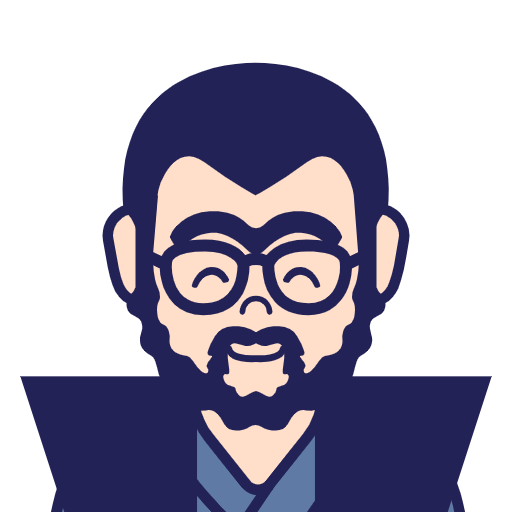
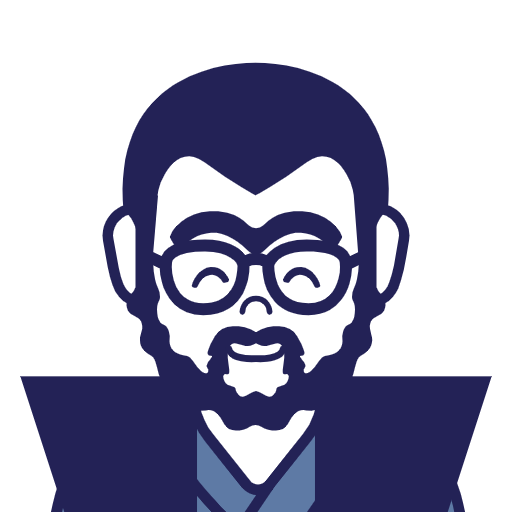
ページトップを追従ボタン化し、Campaign01背景の高さ破綻を修正
- ページトップ: fixed + 1画面スクロールで表示。スタンプボタンの位置を
  --stamp-button-top に共有化し、その 12px 上へ積む（--lg 以上は右下）
- Campaign01 背景: cover をやめ上端原寸 + clip-path。推し商品が増えて
  セクションが設計高 1224px を超えると白帯が露出していた
- 上部の三角も y=1px 始点にして角手前の折れを解消
- 宝探し完了 CTA を特別セット商品ページへ（TREASURE_SPECIAL_URL）
- 担当イニシャル KM → MK、濃い抹茶パウダー写真差し替え、LINE バナー png 化
- favicon を自社ロゴに、\／ の開き幅とasatsuyu/greentea画像を軽量化

Claude-Session: https://claude.ai/code/session_018hv4SRJuTxVF6UNWeBzEC4

Changed region(s): [[0.2188, 0.2812, 0.7812, 0.7812], [0.375, 0.7812, 0.625, 0.9688]]

diff --git a/src/data/campaigns.ts b/src/data/campaigns.ts
@@ -76,11 +76,11 @@ export const HONEY_SALE_ITEMS = [
 /** Campaign01 — スタッフの推し商品紹介。1件ずつ支給され次第、上から埋める。
    staff/product/comment が揃った枠は本表示、無い枠は「準備中」プレースホルダ。
    photo は Campaign01.astro 側の画像マップ(PICK_PHOTOS)のキー。 */
-const KM_HYOCHA_COMMENT =
+const MK_HYOCHA_COMMENT =
   'ティーバッグ形式なので手軽に作れて後片付けが簡単なのも嬉しい所。どれも美味しいですが、プレミアム煎茶は後味がすっきりしており、飲みやすいところが特におすすめです。';
 const SY_WAKOCHA_COMMENT =
   '和紅茶ならではのすっきりとした味わい、そして白桃の「芳醇な甘い香り」は暑い夏にぴったりな一品。ぜひ、一度アイスティで楽しんでいて欲しいです！';
-const KM_KOICHA_COMMENT =
+const MK_KOICHA_COMMENT =
   'フロストシュガーが入っているので、水でも簡単に溶けて使いやすくなっています。おすすめはミルクに溶かして飲む抹茶ラテ。お家で簡単に日本茶カフェ気分が味わえる優れものです。';
 const NN_UJI_COMMENT =
   'ひと口目から抹茶の旨みがしっかり広がり、後味にはほどよい甘みが残ります。特に牛乳で溶くと、抹茶の濃さとミルクのまろやかさが合わさり、濃厚でリッチな味わいが楽しめます！';
@@ -102,13 +102,13 @@ const TE_DAIFUKU_COMMENT =
 const SHOP_ITEM = 'https://www.tea-and-coffee.shop/view/item/';
 
 export const STAFF_PICKS = [
-  { id: 'pick1', staff: 'KM', product: '氷茶プレミアム煎茶', comment: KM_HYOCHA_COMMENT, photo: 'hyocha', href: `${SHOP_ITEM}000000000111` },
+  { id: 'pick1', staff: 'MK', product: '氷茶プレミアム煎茶', comment: MK_HYOCHA_COMMENT, photo: 'hyocha', href: `${SHOP_ITEM}000000000111` },
   { id: 'pick2', staff: 'OT', product: 'CHASTA（チャスタ）', comment: OT_CHASTA_COMMENT, photo: 'chasta', href: `${SHOP_ITEM}000000000316` },
   { id: 'pick3', staff: 'NN', product: '宇治抹茶グリーンティープレミアム', comment: NN_UJI_COMMENT, photo: 'greentea', href: `${SHOP_ITEM}000000000666` },
   { id: 'pick4', staff: 'TE', product: '抹茶大福', comment: TE_DAIFUKU_COMMENT, photo: 'daifuku', href: `${SHOP_ITEM}000000000200` },
   { id: 'pick5', staff: 'SY', product: 'MINTON和紅茶「白桃」', comment: SY_WAKOCHA_COMMENT, photo: 'wakocha', href: `${SHOP_ITEM}000000000662` },
   { id: 'pick6', staff: 'OT', product: '抹茶クッキー', comment: OT_COOKIE_COMMENT, photo: 'cookie', href: `${SHOP_ITEM}000000000163` },
-  { id: 'pick7', staff: 'KM', product: '濃い抹茶パウダー', comment: KM_KOICHA_COMMENT, photo: 'koicha', href: `${SHOP_ITEM}000000000012` },
+  { id: 'pick7', staff: 'MK', product: '濃い抹茶パウダー', comment: MK_KOICHA_COMMENT, photo: 'koicha', href: `${SHOP_ITEM}000000000012` },
   { id: 'pick8', staff: 'NM', product: 'ほうじ茶ヴァッフェル', comment: NM_HOJICHA_COMMENT, photo: 'waffel', href: `${SHOP_ITEM}000000000174` },
   { id: 'pick9', staff: 'OT', product: '品種抹茶「朝露（あさつゆ）」', comment: OT_ASATSUYU_COMMENT, photo: 'asatsuyu', href: `${SHOP_ITEM}000000000802` },
   { id: 'pick10', staff: 'HR', product: 'KFK 水出しアイスコーヒー', comment: HR_KFK_COMMENT, photo: 'icecoffee', href: `${SHOP_ITEM}000000000774` },

diff --git a/src/styles/products/p-campaign01.css b/src/styles/products/p-campaign01.css
@@ -29,7 +29,12 @@
    このセクションの上に重ねて描く。両脇からこの緑が覗く。
    継ぎ目が小数ピクセル(例 298.219px)に来ると、そこに campaign01 の緑地が
    1px の線として覗く。上端を 1px 前セクションへ食い込ませて継ぎ目を覆う
-   （上は同じ --bg-point なので重なりは見えない）。切っ先の深さは維持する。 */
+   （上は同じ --bg-point なので重なりは見えない）。切っ先の深さは維持する。
+
+   斜辺の始点は「食い込ませた上辺(y=0)」ではなく「セクション上端(y=1px)」に置く。
+   上辺から引くと、角の手前 2.7px が上辺で水平に切られて折れ線に見えてしまう
+   （斜辺が y=0..1px を横切る間に x が 0→2.69px 進むため）。y=1px から引けば
+   左右の角まで直線のまま届く。y=0..1px は全幅を塗って継ぎ目だけ覆う。 */
 .p-campaign01::before {
   content: '';
   position: absolute;
@@ -39,20 +44,27 @@
   width: 100%;
   height: calc(68.68px + 1px);
   background-color: var(--bg-point);
-  clip-path: polygon(0 0, 100% 0, 50% 100%);
+  clip-path: polygon(0 0, 100% 0, 100% 1px, 50% 100%, 0 1px);
   pointer-events: none;
 }
 
-/* 支給画像は上 35px・下 5px が枠外の白帯（緑は設計の 0..1224 と一致）。
-   object-position で上を 35px ぶん送り、緑の部分だけを見せる。 */
+/* 支給画像(375換算 375x1264)は上 35px・下 5px が枠外の白帯。中身は金の紙吹雪が
+   y=126..365 にあるだけで、それより下は #02872a のベタ＝--bg-campaign01 と同値。
+
+   inset:0 + object-fit:cover だと、セクションが設計高 1224px を超えた時点で
+   上下の白帯が露出する（cover は必ず縦を埋めきるため、はみ出しが 40px を
+   下回ると白帯を隠しきれない）。推し商品が増えて高さが伸びると境目が白くなった。
+
+   よって画像は上端に原寸で置き、紙吹雪の下(400px)で切り落とす。そこから下は
+   同色の背景色がそのまま続くので継ぎ目は出ず、高さが変わっても破綻しない。 */
 .p-campaign01__bg {
   position: absolute;
-  inset: 0;
+  top: -35px;
+  left: 0;
   z-index: 0;
   width: 100%;
-  height: 100%;
-  object-fit: cover;
-  object-position: 50% 87.5%;
+  height: auto;
+  clip-path: inset(35px 0 864px);
   pointer-events: none;
 }
 

diff --git a/src/styles/products/p-footer.css b/src/styles/products/p-footer.css
@@ -52,12 +52,20 @@
   color: var(--palette-hover);
 }
 
-/* 実測: 50x50 @(305,-25)。前セクションにまたがるので上へはみ出す。 */
+/* 実測: 50x50。カンプではフッター右上 @(305,-25) に常時置かれているが、
+   ある程度スクロールしてから出る追従ボタンにするので fixed で浮かせる。
+
+   本体カラムは画面中央なので、スタンプボタンと同じく「viewport 幅 - カラム幅」の
+   半分から右端を出す（fixed の % は viewport 基準になるため 100vw と違いスクロールバーを含まない）。
+   右の余白 20px はカンプの位置（305+50=355、375-355=20）と l-inner の余白に一致する。
+
+   縦位置は、スタンプボタン（同じく fixed で本体カラム右端）と重なるのでその 12px 上に積む。
+   62px = ボタン 50px + 余白 12px。--lg 以上ではスタンプボタンが消えるので右下へ回す。 */
 .p-footer__pagetop {
-  position: absolute;
-  top: -25px;
-  left: 305px;
-  z-index: 2;
+  position: fixed;
+  inset-block-start: calc(var(--stamp-button-top) - 62px);
+  inset-inline-end: calc(max(0px, (100% - var(--layout-main-max-sp)) / 2) + 20px);
+  z-index: 20;
   display: grid;
   place-items: center;
   width: 50px;
@@ -67,7 +75,26 @@
   background-color: var(--color-surface);
   color: var(--bg-footer);
   cursor: pointer;
-  transition: color var(--duration-hover) var(--easing-standard);
+  opacity: 0;
+  visibility: hidden;
+  transition:
+    opacity var(--duration-hover) var(--easing-standard),
+    visibility var(--duration-hover) var(--easing-standard),
+    color var(--duration-hover) var(--easing-standard);
+}
+
+/* 1 画面ぶんスクロールしたら main.js が付ける */
+.p-footer__pagetop.is-visible {
+  opacity: 1;
+  visibility: visible;
+}
+
+@media (--lg) {
+  .p-footer__pagetop {
+    inset-block-start: auto;
+    inset-block-end: 20px;
+    inset-inline-end: calc((100% - var(--layout-main-width)) / 2 + 20px);
+  }
 }
 
 .p-footer__pagetop:hover {

diff --git a/src/scripts/main.js b/src/scripts/main.js
@@ -9,12 +9,29 @@ export function initSiteScripts() {
 
 /**
  * ページトップへ戻る。
- * カンプではフッター右上（前セクションとの境界にまたがる位置）に常時置かれるので、
- * スクロール量による表示切替は行わない。
+ * 追従表示。1 画面ぶんスクロールしたら is-visible を付けて出す（CSS でフェード）。
+ * scroll は passive + rAF で 1 フレーム 1 回に間引く。
  */
 function initPageTop() {
   const button = document.querySelector('[data-pagetop]');
   if (!(button instanceof HTMLElement)) return;
+
+  let ticking = false;
+  const update = () => {
+    ticking = false;
+    button.classList.toggle('is-visible', window.scrollY > window.innerHeight);
+  };
+
+  window.addEventListener(
+    'scroll',
+    () => {
+      if (ticking) return;
+      ticking = true;
+      requestAnimationFrame(update);
+    },
+    { passive: true },
+  );
+  update();
 
   button.addEventListener('click', () => {
     const reduceMotion = window.matchMedia('(prefers-reduced-motion: reduce)').matches;

diff --git a/src/styles/products/p-treasure.css b/src/styles/products/p-treasure.css
@@ -518,8 +518,7 @@ body.is-treasure-open {
 .p-stamp-button {
   position: fixed;
   z-index: 20;
-  /* 648px は指定値。ただし縦の短い端末で画面外へ落ちないよう下端で止める */
-  inset-block-start: min(648px, calc(100dvh - 130px));
+  inset-block-start: var(--stamp-button-top);
   /* 本体カラム（中央・最大 --layout-main-max-sp）の右端に右端を合わせる */
   inset-inline-end: max(0px, calc((100% - var(--layout-main-max-sp)) / 2));
   display: block;

diff --git a/src/styles/global/variables.css b/src/styles/global/variables.css
@@ -104,6 +104,10 @@
   --layout-main-max-sp: 390px;
   --layout-padding-sp: 20px;
   --layout-padding-pc: 50px;
+  /* スタンプボタン(fixed)の上端と高さ。ページトップボタンをこの上に積むので共有する。
+     648px は指定値。縦の短い端末で画面外へ落ちないよう下端で止める。 */
+  --stamp-button-top: min(648px, calc(100dvh - 130px));
+  --stamp-button-height: 106px;
 
   /* Spacing */
   --spacing-xs: 4px;

diff --git a/src/data/links.ts b/src/data/links.ts
@@ -5,3 +5,6 @@ export const LINE_URL = import.meta.env.PUBLIC_LINE_URL || process.env.PUBLIC_LI
 
 /** MakeShop の商品詳細 URL を組み立てる */
 export const itemUrl = (code: string) => `${LINK_BASE}${code}`;
+
+/** 宝探しを 3 つ揃えた人だけに出す「特別セットを見る」CTA の遷移先 */
+export const TREASURE_SPECIAL_URL = 'https://www.tea-and-coffee.shop/view/item/000000000892';

diff --git a/src/styles/components/c-heading.css b/src/styles/components/c-heading.css
@@ -54,12 +54,12 @@
 
 /* ＼ は上が左に倒れる = 反時計回り。／ は時計回り。 */
 .c-heading__lead::before {
-  left: 0.2em;
+  left: 0.45em;
   rotate: -20deg;
 }
 
 .c-heading__lead::after {
-  right: 0.2em;
+  right: 0.45em;
   rotate: 20deg;
 }
 
